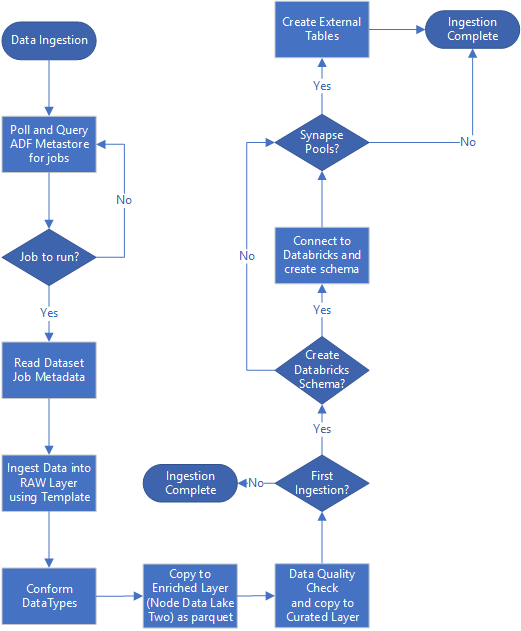
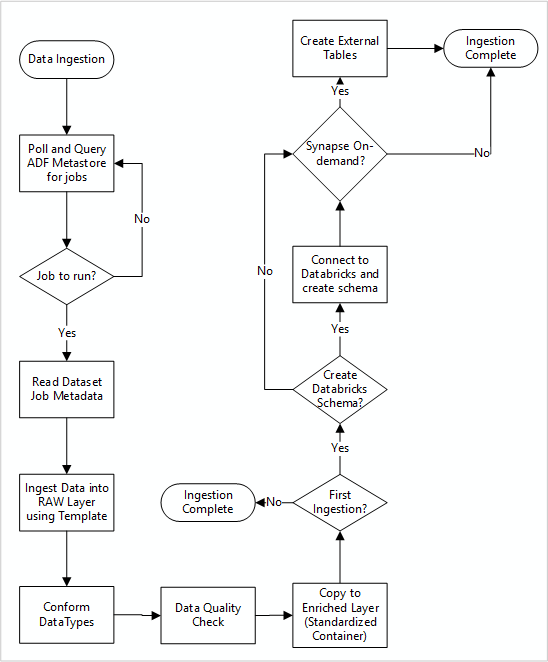
update auto ingest

Changed region(s): [[0.0, 0.0, 1.0, 1.0]]

diff --git a/docs/scenarios/data-management/best-practices/automated-ingestion-pattern.md b/docs/scenarios/data-management/best-practices/automated-ingestion-pattern.md
@@ -3,7 +3,7 @@ title: How automated ingestion frameworks support data management and analytics 
 description: Learn about how automated ingestion frameworks support data management and analytics scenario in Azure.
 author: mboswell
 ms.author: mboswell
-ms.date: 11/25/2021
+ms.date: 02/25/2022
 ms.topic: conceptual
 ms.service: cloud-adoption-framework
 ms.subservice: scenario
@@ -11,8 +11,6 @@ ms.custom: e2e-data-management, think-tank
 ---
 
 # How automated ingestion frameworks support data management and analytics scenario in Azure
-
-The [ingest process with data management and analytics scenario in Azure](./data-ingestion.md#ingest-considerations-for-azure-data-factory) and [ingest and processing resource group](../architectures/data-landing-zone.md#data-agnostic-ingestion) guide enterprises through how to build their own custom ingestion framework.
 
 This section provides guidance for how custom ingestion frameworks can drive services and processes.
 
@@ -24,6 +22,8 @@ This section provides guidance for how custom ingestion frameworks can drive ser
 The following illustrates how data application teams can use custom applications, Azure Logic Apps, or Microsoft Power Apps to register new data sources:
 
 ![Diagram of an automated ingestion process.](../images/automated-ingest-process.png)
+
+A data agnostic ingestion engine UI is deployed to the data management landing zone. This could be integrated into a data marketplace or operations console.
 
 The application can talk to an Azure Data Factory SQL Database metastore within each data landing zone to create new data sources and ingest them into data landing zones. Once ingestion requests are approved, it uses the Azure Purview REST API to insert the sources into Azure Purview.
 
@@ -72,16 +72,7 @@ The following illustrates how registered data sources in a Data Factory SQL Data
 
 ![Diagram of how new data sources are ingested.](../images/new-datastore-ingestion.png)
 
-The Data Factory ingestion master pipeline reads configurations from a Data Factory SQL Database metastore and runs iteratively with the correct parameters. Data moves with little to no change from the source to the raw layer in Azure Data Lake. The data shape is validated based on the Data Factory metastore, and file formats are converted to either Apache Parquet or Avro formats before being copied into the enriched layer.
-
-> [!TIP]
-> The Parquet format is recommended when the input/output (I/O) patterns are more read-heavy or when the query patterns focus on a subset of columns in the records where read transactions can be optimized to retrieve specific columns instead of reading the entire record.\
-> \
-> The Apache Avro file format is recommended where I/O patterns are more write-heavy or when query patterns retrieve multiple and whole rows of records. For example, the Avro format is favored by a message bus like Apache Event Hubs or Kafka, which write multiple events/messages in succession.
-
-If the data is ingested, it connects to an Azure Databricks data science and engineering workspace, and a data definition is created within the data management landing zone Apache Hive metastore. This data definition needs to be protected so that only the automation process can create, alter, or drop data definitions.
-
-If data application teams needs to use SQL pools to expose data, then the custom solution is to create external tables or ingest data directly into the SQL pools' internal tables.
+The Data Factory ingestion master pipeline reads configurations from a Data Factory SQL Database metastore and runs iteratively with the correct parameters. Data moves with little to no change from the source to the raw layer in Azure Data Lake. The data shape is validated based on the Data Factory metastore, and file formats are converted to delta lake format.
 
 ## Use the Azure Purview REST API to discover data
 
